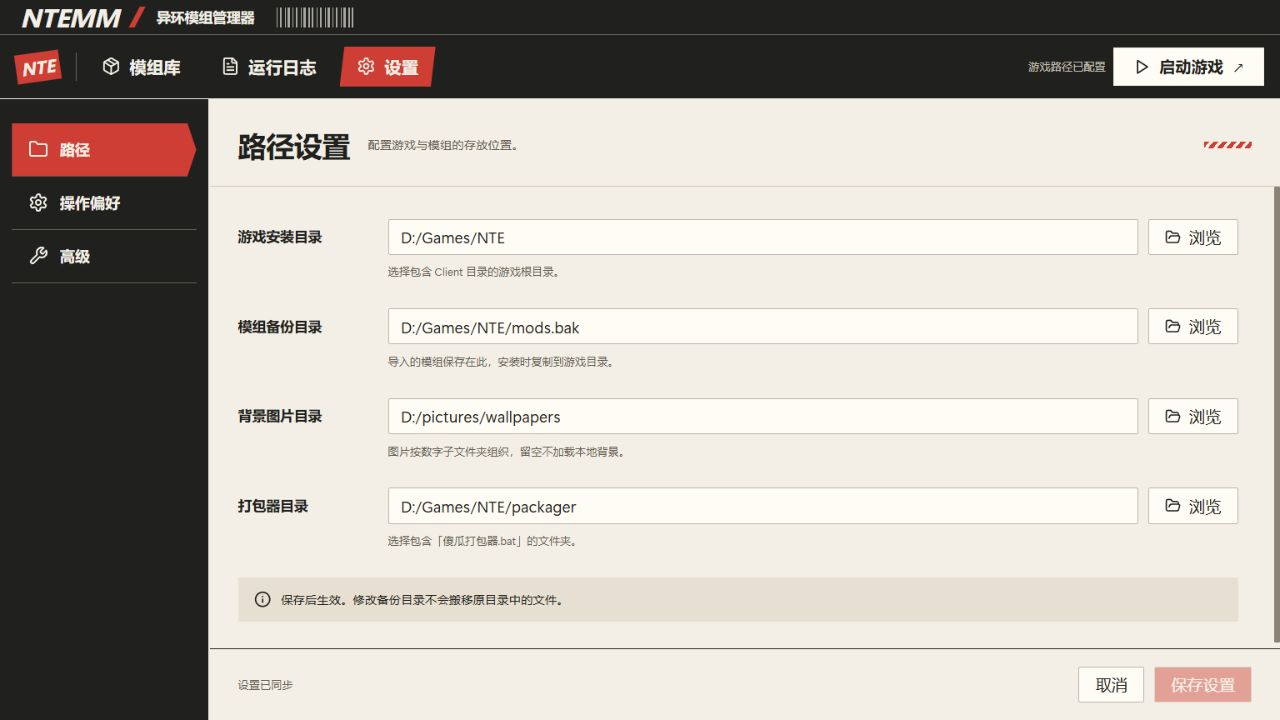
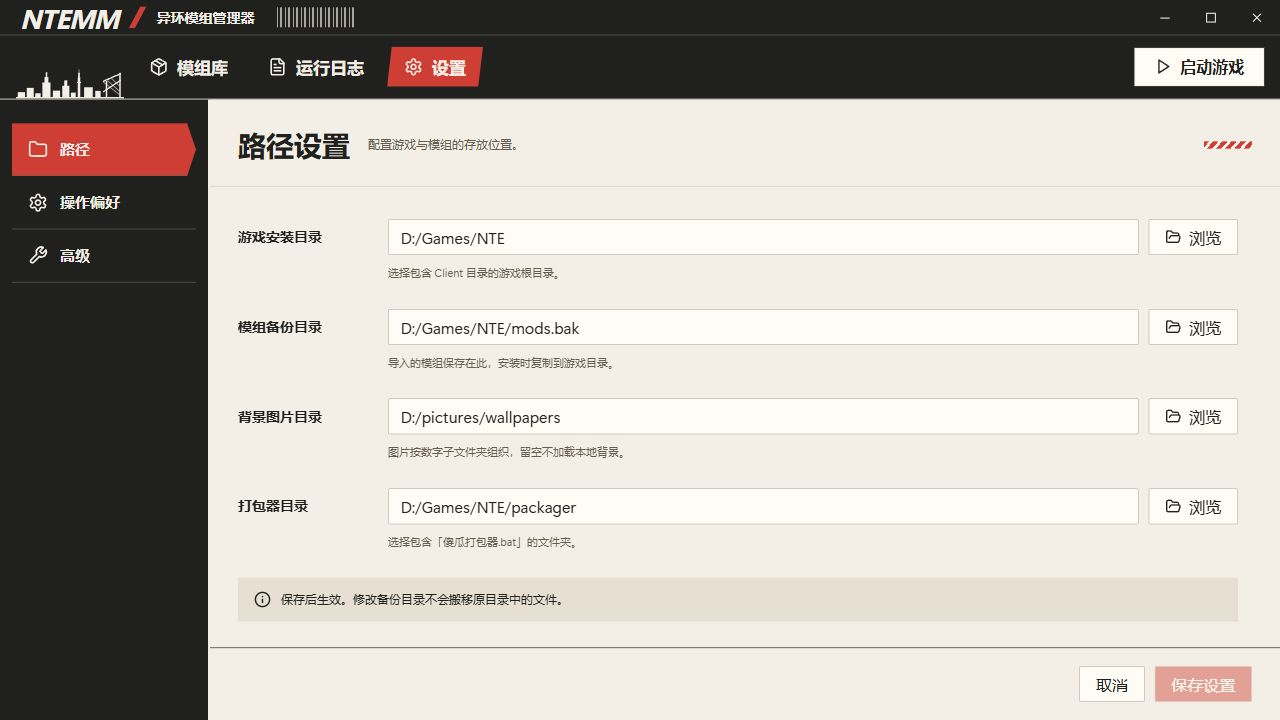
style: 移除设置页底部状态文字

diff --git a/app/src/renderer/src/index.css b/app/src/renderer/src/index.css
@@ -1034,11 +1034,6 @@ select {
   padding: 18px 28px;
   border-top: 1px solid var(--ink);
 }
-.settings-footer > span {
-  margin-right: auto;
-  font-size: 11px;
-  color: #655c50;
-}
 .settings-toggle {
   display: flex;
   align-items: center;
@@ -1486,9 +1481,6 @@ select {
   }
   .settings-footer {
     padding: 14px 16px;
-  }
-  .settings-footer > span {
-    display: none;
   }
   .batch-surface {
     flex-wrap: wrap;

diff --git a/app/src/renderer/src/components/settings-view.tsx b/app/src/renderer/src/components/settings-view.tsx
@@ -228,7 +228,6 @@ export default function SettingsView({ config, onSaved, onDirtyChange, onCancel 
           )}
         </div>
         <div className="settings-footer">
-          <span>{dirty ? '有尚未保存的更改' : '设置已同步'}</span>
           <Button variant="outline" disabled={saving} onClick={onCancel}>
             取消
           </Button>

diff --git a/docs/design/ui-redesign-2026-11-16/implementation/README.md b/docs/design/ui-redesign-2026-11-16/implementation/README.md
@@ -76,6 +76,8 @@
 
 操作偏好和高级设置的四项布尔选项改用开关，开启时显示朱红色，关闭时显示灰色，修改后点击「保存设置」生效。复用现有开关组件，并提供独立的无障碍名称。
 
+设置页底部移除左侧状态文字，仅保留右侧「取消」和「保存设置」按钮。
+
 内置浏览器验证鼠标点击、点击选项文字、空格键及回车键切换通过，键盘焦点轮廓可见。保存后离开并重新进入设置，内存 mock 中的状态正确恢复；测试状态已还原。类型检查通过，控制台未发现错误或警告。
 
 ![操作偏好开关](./settings-preferences.jpg)
